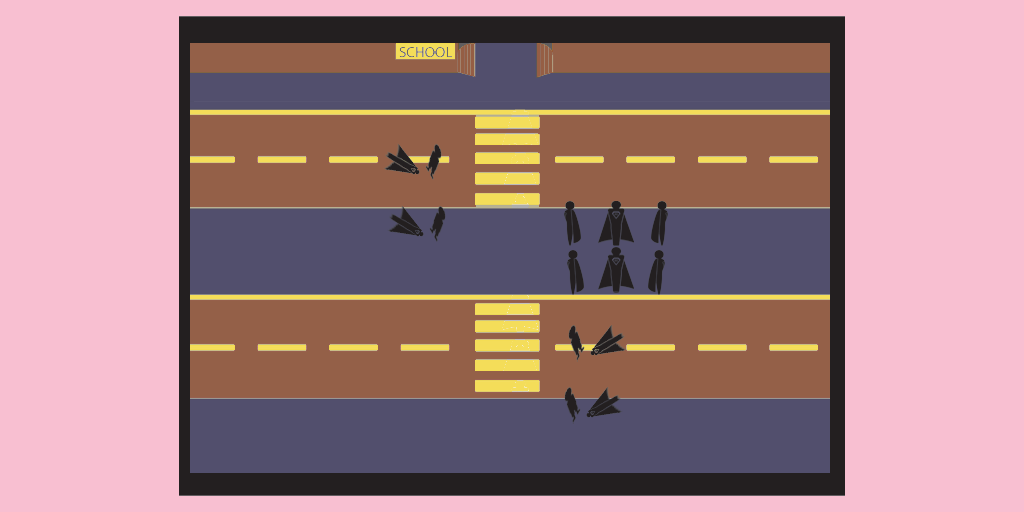
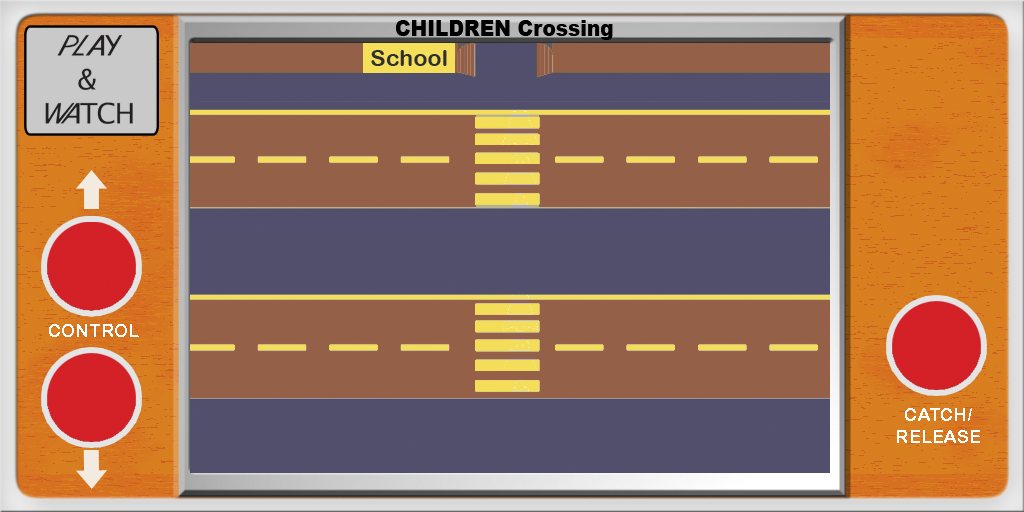
Graphismes du jeu intégrés, et ça pète. Graphismes du site.

diff --git a/index.html b/index.html
@@ -74,7 +74,8 @@
     }
 
     body {
-      background-color: #7a61a3;
+      background-image: url('images/pattern.png');
+      background-repeat:repeat;
     }
 
     header {
@@ -95,35 +96,48 @@
     footer {
       margin: 0 auto;
       color: white;
+      text-align : center;
     }
 
     a:link {
-      color: white;
+      color: #d32027;
     }
 
     a:visited {
-      color: #BBB;
+      color: #991b1f;
     }
 
     a:hover {
-      color: blue;
+      color: gray;
     }
 
   </style>
 
 
 </head>
-<body onkeydown="keypress(event);">
+<body onkeydown="keypress(event);" onkeyup="keyup(event)">
 <audio id="persoSon" preload="auto" autobuffer> 
   <source src="sounds/perso.mp3" />
   <source src="sounds/perso.ogg" />
   <source src="sounds/perso.wav" />
   <!-- now include flash fall back -->
 </audio>
+<audio id="enfantSon" preload="auto" autobuffer> 
+  <source src="sounds/enfant.mp3" />
+  <source src="sounds/enfant.ogg" />
+  <source src="sounds/enfant.wav" />
+  <!-- now include flash fall back -->
+</audio>
+<audio id="looseSon" preload="auto" autobuffer> 
+  <source src="sounds/loose.mp3" />
+  <source src="sounds/loose.ogg" />
+  <source src="sounds/loose.wav" />
+  <!-- now include flash fall back -->
+</audio>
+
 <div id="wrapper">
-  <header><h1>Play And Watch : Children Crossing</h1></header>
   <canvas id="canvas"></canvas>
-  <footer>Copyrights: une super team, fait à <a href="http://isartdigital.com"> Isart Digital </a></footer>
+  <footer>Copyrights: a great team, made at <a href="http://isartdigital.com">Isart Digital</a>. Use up and down key to move, "V" key to catch / release children. Read more at <a href="https://github.com/DjebbZ/Play---Watch"> this adress</a>. </footer>
 </div>
 <script type="text/javascript" src="buzz.js"></script>
 <script type="text/javascript" src="fonctions.js"></script>

diff --git a/events.js b/events.js
@@ -11,6 +11,11 @@ canvas.onmousemove = function (e) {
   mousemove(e || window.event);
 }
 
+canvas.ontouchend = function (e) {
+	upPressed = false;
+	downPressed = false;
+	catchPressed = false;
+}
 function clic (event) {
   var position;
   if (compteurdImages == compteurdImagesChargees) {
@@ -32,6 +37,7 @@ function clic (event) {
         &&
         !lifeLost
       ) {
+      upPressed = true;
       moveCharacterUp();
     }
 
@@ -42,8 +48,22 @@ function clic (event) {
         &&
         !lifeLost
       ) {
+      downPressed = true;
       moveCharacterDown();
     }
+
+    if (
+      (position.x >= boutonDown.x && position.x <= (boutonCatch.x + boutonCatch.width))
+        &&
+        (position.y >= boutonDown.y && position.y <= (boutonCatch.y + boutonCatch.width))
+        &&
+        !lifeLost
+      ) {
+      catchPressed = true;
+      choppe();
+    }
+
+
   }
 }
 
@@ -55,15 +75,23 @@ function mousemove (event) {
 
   }
 }
+function keyup() {
+	upPressed = false;
+	downPressed  = false;
+	catchPressed = false;
+}
 
 function keypress (event) {
   if (event.keyCode == 38 && !lifeLost) {
+  	upPressed = true;
     moveCharacterUp();
   }
   if (event.keyCode == 40 && !lifeLost) {
+  	downPressed = true;
     moveCharacterDown();
   }
   if (event.keyCode == 86) {
+  	catchPressed = true;
   	choppe();
   }
 

diff --git a/fonctions.js b/fonctions.js
@@ -26,8 +26,9 @@ function drawChargement () {
  */
 function drawAll () {
   // Boutons
-  ctx.drawImage(messArray[1], boutonUp.x, boutonUp.y);
-  ctx.drawImage(messArray[1], boutonDown.x, boutonDown.y);
+  if (!upPressed) ctx.drawImage(messArray[1], boutonUp.x, boutonUp.y);
+  if (!downPressed) ctx.drawImage(messArray[1], boutonDown.x, boutonDown.y);
+  if (!catchPressed) ctx.drawImage(messArray[1], boutonCatch.x, boutonCatch.y);
 
   // Personnage
   ctx.drawImage(elementsArray[0], characterArray[characterPosition].x, characterArray[characterPosition].y);
@@ -160,6 +161,7 @@ function moveCharacterUp() {
 		  	}
 	}
  // soundsArray[1].play();
+persoSon.currentTime=0;
  persoSon.play();
 }
 
@@ -184,6 +186,7 @@ function moveCharacterDown () {
 	 }
 
 //  soundsArray[1].play();
+persoSon.currentTime=0;
 persoSon.play();
 }
 
@@ -192,7 +195,8 @@ persoSon.play();
  */
 function oneMoreDeath() {
   if (!lifeLost) {
-    //soundsArray[2].play();
+   		looseSon.currentTime=0;
+    	looseSon.play();
     nbDeaths++;
     lifeLost = true;
     if (nbDeaths == 3) {

diff --git a/variables.js b/variables.js
@@ -3,11 +3,16 @@ canvas.width = 1024;
 canvas.height = 512;
 var ctx = canvas.getContext('2d');
 var persoSon = document.getElementById("persoSon");
+var enfantSon = document.getElementById("enfantSon");
+var looseSon = document.getElementById("looseSon");
 if (navigator.language == "fr") {
   var langue = "fr"
 } else {
   var langue = "en"
 }
+var upPressed = false;
+var downPressed = false;
+var catchPressed = false;
 var mode = "menu"; // chargement || menu || jeu;
 var timer = 0;
 var choppeBool = false;
@@ -15,14 +20,20 @@ var nbDeaths = 0;
 var lifeLost = false;
 var rectangle = false;
 var boutonUp = {
-  x      : 50,
-  y      : 210,
+  x      : 48,
+  y      : 215,
   width  : 90,
   height : 90
 };
 var boutonDown = {
-  x      : 50,
-  y      : 320,
+  x      : 48,
+  y      : 348,
+  width  : boutonUp.width,
+  height : boutonUp.height
+};
+var boutonCatch = {
+  x      : 892,
+  y      : 296,
   width  : boutonUp.width,
   height : boutonUp.height
 };

diff --git a/main.js b/main.js
@@ -30,9 +30,10 @@ function metronome () {
       if (Math.random() > 0.9) {
         carArray[Math.round(Math.random(0.5) * 3)][0].etat = 1;
       }
-      if (childrenBool == true) {
+      if (childrenBool) {
         moveChildrens();
-      //  soundsArray[0].play();
+        //enfantSon.currentTime=0;
+    	//enfantSon.play();
 
         // Apparition d'un nouvel enfant
         if (Math.random() > 0.9) {
